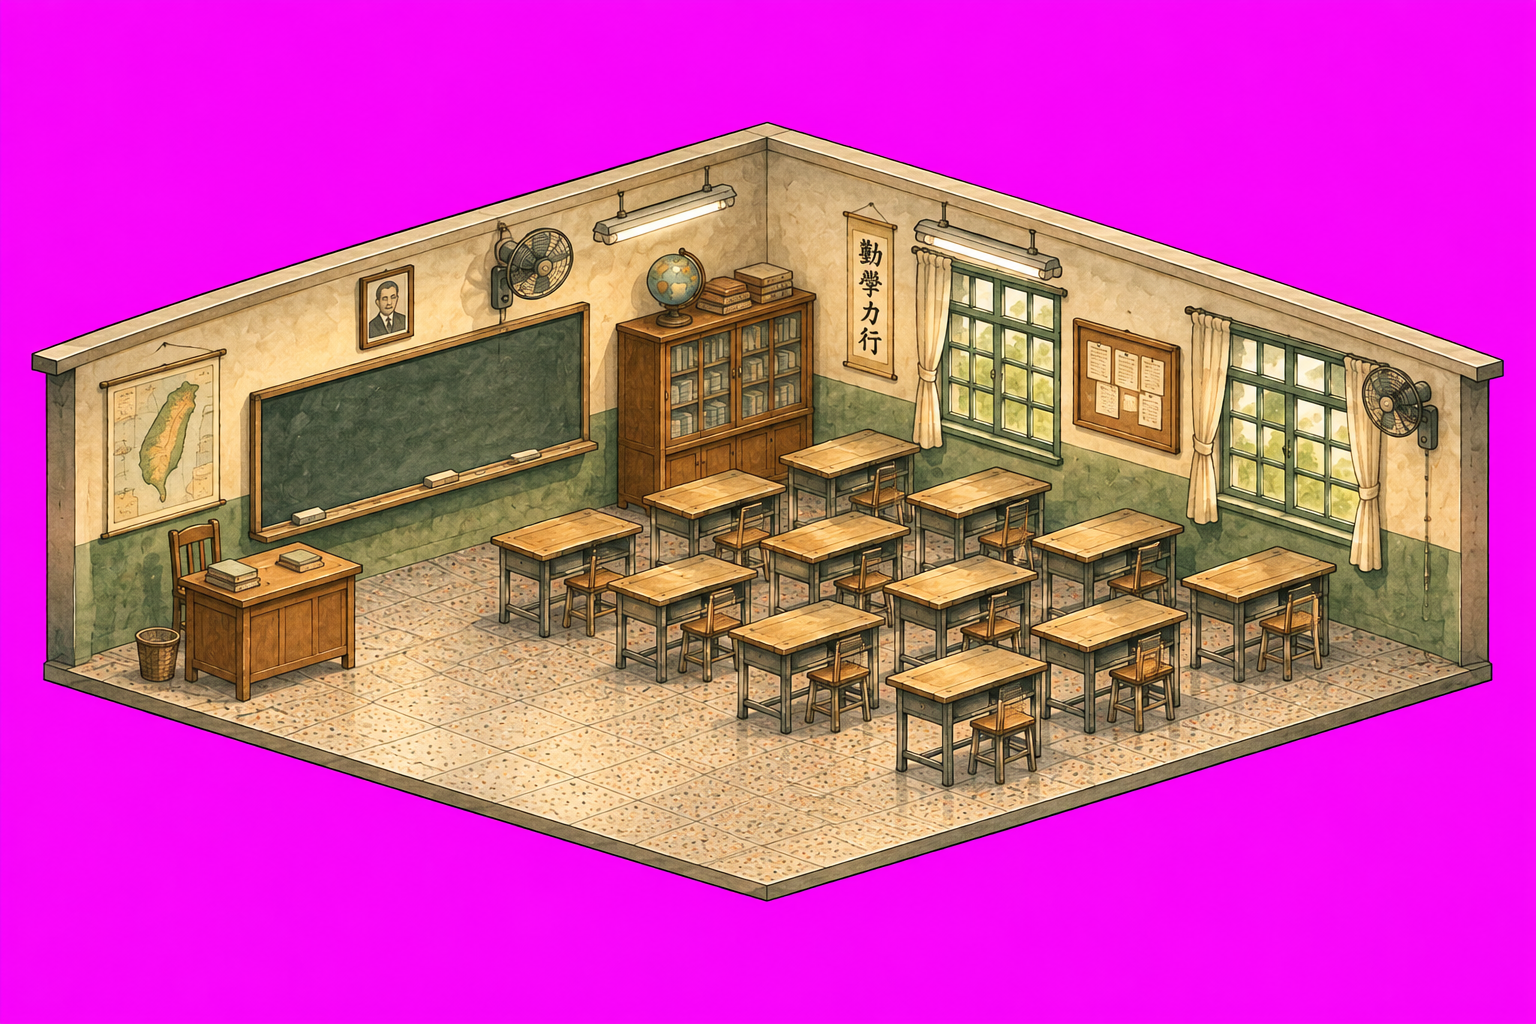
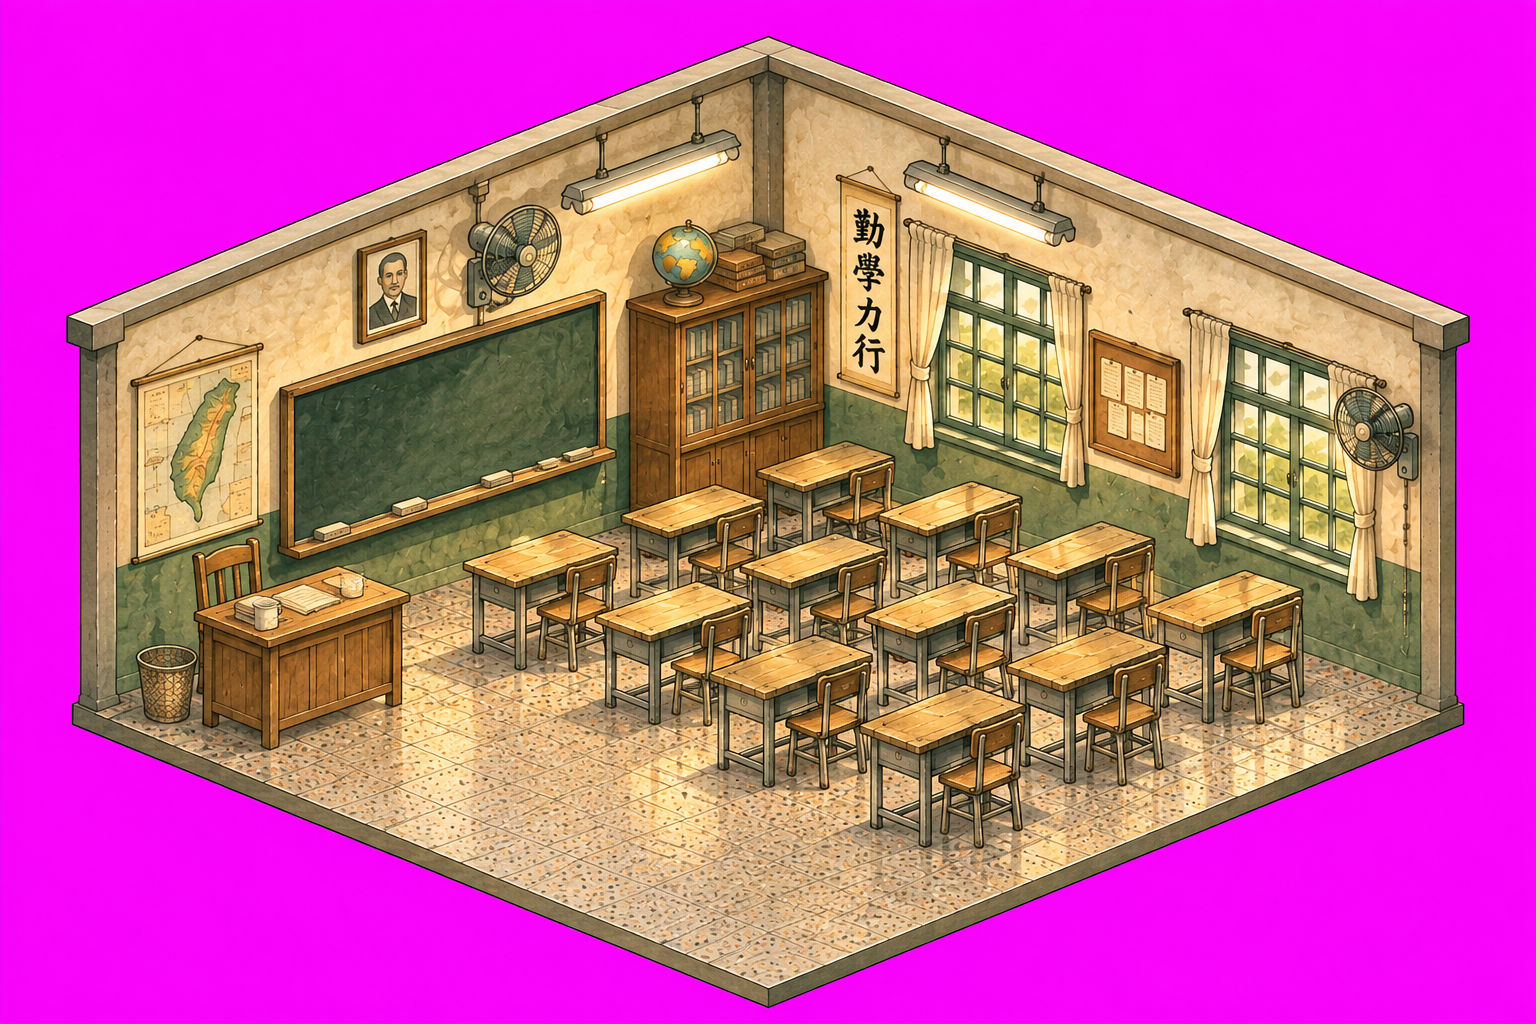
v1.26: era-1 classroom cutaway redo
Claude-Session: https://claude.ai/code/session_011d3KcKFiuVo1dRnYze4gVJ

diff --git a/index.html b/index.html
@@ -15,49 +15,49 @@
 <link rel="icon" href="data:,">
 <link rel="preconnect" href="https://fonts.googleapis.com"><link rel="preconnect" href="https://fonts.gstatic.com" crossorigin>
 <link href="https://fonts.googleapis.com/css2?family=Zen+Maru+Gothic:wght@500;700&family=Cormorant+Garamond:wght@600;700&family=Noto+Sans+TC:wght@400;500;700&family=Noto+Serif+TC:wght@600;700&display=swap" rel="stylesheet">
-<link rel="stylesheet" href="css/style.css?v=1.25">
-<link rel="stylesheet" href="css/stage.css?v=1.25">
-<link rel="stylesheet" href="css/app.css?v=1.25">
+<link rel="stylesheet" href="css/style.css?v=1.26">
+<link rel="stylesheet" href="css/stage.css?v=1.26">
+<link rel="stylesheet" href="css/app.css?v=1.26">
 </head>
 <body>
 <div id="spl"><img src="assets/appicon/icon-192.png" alt=""><h1>學校模擬器</h1><div class="sp-en">SCHOOL EMPIRE</div><div class="sp-tap">點擊開始</div><div id="spUpd" class="sp-upd"></div><div class="sp-ft"><div class="sp-hint" id="spHint">建議把手機橫過來玩（直拿會自動旋轉）<u id="spRot"></u></div><div id="spCp"></div><div>未經授權，請勿轉載、改作或作商業使用</div><div id="spVer"></div></div></div>
 <div id="app"></div>
 <div id="prog" class="prog"></div>
-<script src="js/version.js?v=1.25"></script>
-<script src="js/update.js?v=1.25"></script>
-<script src="js/rot.js?v=1.25"></script>
-<script src="js/core.js?v=1.25"></script>
-<script src="js/data.js?v=1.25"></script>
-<script src="js/world.js?v=1.25"></script>
-<script src="js/ledger.js?v=1.25"></script>
-<script src="js/people.js?v=1.25"></script>
-<script src="js/school.js?v=1.25"></script>
-<script src="js/edu.js?v=1.25"></script>
-<script src="js/rivals.js?v=1.25"></script>
-<script src="js/events.js?v=1.25"></script>
-<script src="js/group.js?v=1.25"></script>
-<script src="js/engine.js?v=1.25"></script>
-<script src="js/ai.js?v=1.25"></script>
-<script src="js/save.js?v=1.25"></script>
-<script src="js/ui-core.js?v=1.25"></script>
-<script src="js/art-iso.js?v=1.25"></script>
-<script src="js/art-ext.js?v=1.25"></script>
-<script src="js/hires.js?v=1.25"></script>
-<script src="js/art-chibi.js?v=1.25"></script>
-<script src="js/campus-sim.js?v=1.25"></script>
-<script src="js/ui-campus.js?v=1.25"></script>
-<script src="js/ui-iso.js?v=1.25"></script>
-<script src="js/ui-sim.js?v=1.25"></script>
-<script src="js/ghibli.js?v=1.25"></script>
-<script src="js/ui-bview.js?v=1.25"></script>
-<script src="js/assets.js?v=1.25"></script>
-<script src="js/demo.js?v=1.25"></script>
-<script src="js/ui-office.js?v=1.25"></script>
-<script src="js/ui-a.js?v=1.25"></script>
-<script src="js/ui-b.js?v=1.25"></script>
-<script src="js/ui-c.js?v=1.25"></script>
-<script src="js/ui-stage.js?v=1.25"></script>
-<script src="js/guide.js?v=1.25"></script>
-<script src="js/ui-main.js?v=1.25"></script>
+<script src="js/version.js?v=1.26"></script>
+<script src="js/update.js?v=1.26"></script>
+<script src="js/rot.js?v=1.26"></script>
+<script src="js/core.js?v=1.26"></script>
+<script src="js/data.js?v=1.26"></script>
+<script src="js/world.js?v=1.26"></script>
+<script src="js/ledger.js?v=1.26"></script>
+<script src="js/people.js?v=1.26"></script>
+<script src="js/school.js?v=1.26"></script>
+<script src="js/edu.js?v=1.26"></script>
+<script src="js/rivals.js?v=1.26"></script>
+<script src="js/events.js?v=1.26"></script>
+<script src="js/group.js?v=1.26"></script>
+<script src="js/engine.js?v=1.26"></script>
+<script src="js/ai.js?v=1.26"></script>
+<script src="js/save.js?v=1.26"></script>
+<script src="js/ui-core.js?v=1.26"></script>
+<script src="js/art-iso.js?v=1.26"></script>
+<script src="js/art-ext.js?v=1.26"></script>
+<script src="js/hires.js?v=1.26"></script>
+<script src="js/art-chibi.js?v=1.26"></script>
+<script src="js/campus-sim.js?v=1.26"></script>
+<script src="js/ui-campus.js?v=1.26"></script>
+<script src="js/ui-iso.js?v=1.26"></script>
+<script src="js/ui-sim.js?v=1.26"></script>
+<script src="js/ghibli.js?v=1.26"></script>
+<script src="js/ui-bview.js?v=1.26"></script>
+<script src="js/assets.js?v=1.26"></script>
+<script src="js/demo.js?v=1.26"></script>
+<script src="js/ui-office.js?v=1.26"></script>
+<script src="js/ui-a.js?v=1.26"></script>
+<script src="js/ui-b.js?v=1.26"></script>
+<script src="js/ui-c.js?v=1.26"></script>
+<script src="js/ui-stage.js?v=1.26"></script>
+<script src="js/guide.js?v=1.26"></script>
+<script src="js/ui-main.js?v=1.26"></script>
 </body>
 </html>

diff --git a/js/version.js b/js/version.js
@@ -1,2 +1,2 @@
 /* 版本號（x.xx）：由 tools/bump.py 同步更新，請勿手改 */
-(function(r){ const SE=r.SE=r.SE||{}; SE.APPVER='1.25'; SE.COPYRIGHT='© 2026 yu-tinglu　學校模擬器 版權所有'; })(typeof window!=='undefined'?window:globalThis);
+(function(r){ const SE=r.SE=r.SE||{}; SE.APPVER='1.26'; SE.COPYRIGHT='© 2026 yu-tinglu　學校模擬器 版權所有'; })(typeof window!=='undefined'?window:globalThis);
